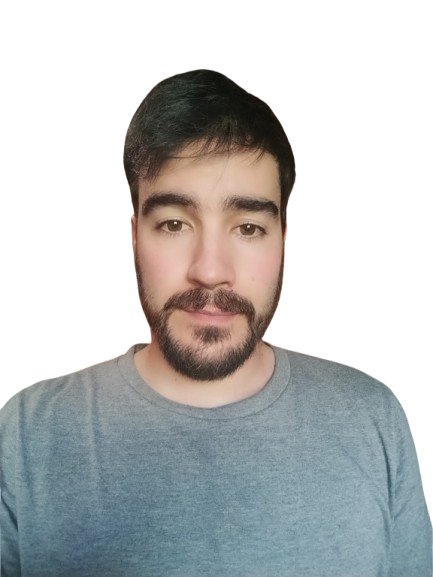
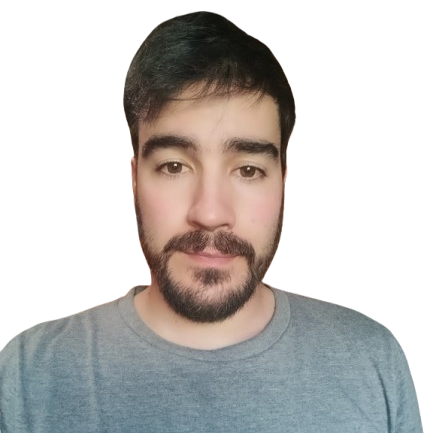
mejoras

diff --git a/index.html b/index.html
@@ -20,12 +20,12 @@
 <div class="container py-5">
     
     <div class="cv-header d-flex align-items-center">
-        <img src="Img/profile_picture.png" alt="Profile Picture" class="profile-pic rounded-circle me-4" width="110">
+        <img src="Img/profile_picture.png" alt="Profile Picture" class="profile-pic me-4" width="210">
         <div class="header-content">
           <h1 data-lang="es">Gerónimo Ríos Pisoni</h1>
           <h1 data-lang="en" style="display: none;">Gerónimo Ríos Pisoni</h1>
-          <h5 data-lang="en" style="display: none;">Systems Analyst Student</h5>
-          <p>
+          
+          <p class="color"">
             <span class="info-label" data-lang="es">Email: <svg xmlns="http://www.w3.org/2000/svg" width="16" height="16" fill="currentColor" class="bi bi-envelope-at" viewBox="0 0 16 16">
   <path d="M2 2a2 2 0 0 0-2 2v8.01A2 2 0 0 0 2 14h5.5a.5.5 0 0 0 0-1H2a1 1 0 0 1-.966-.741l5.64-3.471L8 9.583l7-4.2V8.5a.5.5 0 0 0 1 0V4a2 2 0 0 0-2-2zm3.708 6.208L1 11.105V5.383zM1 4.217V4a1 1 0 0 1 1-1h12a1 1 0 0 1 1 1v.217l-7 4.2z"/>
   <path d="M14.247 14.269c1.01 0 1.587-.857 1.587-2.025v-.21C15.834 10.43 14.64 9 12.52 9h-.035C10.42 9 9 10.36 9 12.432v.214C9 14.82 10.438 16 12.358 16h.044c.594 0 1.018-.074 1.237-.175v-.73c-.245.11-.673.18-1.18.18h-.044c-1.334 0-2.571-.788-2.571-2.655v-.157c0-1.657 1.058-2.724 2.64-2.724h.04c1.535 0 2.484 1.05 2.484 2.326v.118c0 .975-.324 1.39-.639 1.39-.232 0-.41-.148-.41-.42v-2.19h-.906v.569h-.03c-.084-.298-.368-.63-.954-.63-.778 0-1.259.555-1.259 1.4v.528c0 .892.49 1.434 1.26 1.434.471 0 .896-.227 1.014-.643h.043c.118.42.617.648 1.12.648m-2.453-1.588v-.227c0-.546.227-.791.573-.791.297 0 .572.192.572.708v.367c0 .573-.253.744-.564.744-.354 0-.581-.215-.581-.8Z"/>
@@ -47,7 +47,7 @@
             <span class="info-label" data-lang="es">Edad:</span>
             <span class="info-label" data-lang="en" style="display: none;">Age:</span> 34<br>
             <span class="info-label" data-lang="es">Licencia de conducir: Autos/Motos/Camionetas</span>
-            <span class="info-label" data-lang="en" style="display: none;">Driver's License: Cars/Motorcycles/Pick-up trucks</span><br>
+            <span class="info-label" data-lang="en" style="display: none;">Driver's License:Cars/Motorcycles/Pick-up trucks</span> <br>
           </p>
         </div>
         
@@ -139,7 +139,10 @@
       <p data-lang="en" style="display: none;">Seeking to join a technical team where I can apply my knowledge in IT support, troubleshooting, and basic electronics to effectively resolve incidents and contribute to continuous improvement. Interested in developing field-service experience while maintaining strong customer support orientation, documentation discipline, and operational best practices.</p>    
     </div>
   
-
+<div class="qr-container">
+          <img src="Img/qr-code.svg" alt="QR Code" class="header-extra-image">
+          <p class="qr-sublabel">Versión WEB</p>
+        </div>
   
 
   </div>

diff --git a/styles.css b/styles.css
@@ -68,9 +68,14 @@ body {
   border-radius: 8px;
 }
 
+a {
+  color: #000000 !important;
+  text-decoration: none;
+}
+
 .qr-sublabel {
   font-size: 14px;
-  color: #666;
+  color: #000000;
   margin: 0;
   text-align: center;
 }
@@ -132,9 +137,11 @@ body {
 }
 
 .profile-pic {
-    margin-bottom: 15px;
-    border: 2px solid #ddd;
+    margin-bottom: 0px;
+    border: 2px solid #333;
     padding: 5px;
+    border-radius: 8px;
+    margin: 10;
 }
 
 .dark-mode {
